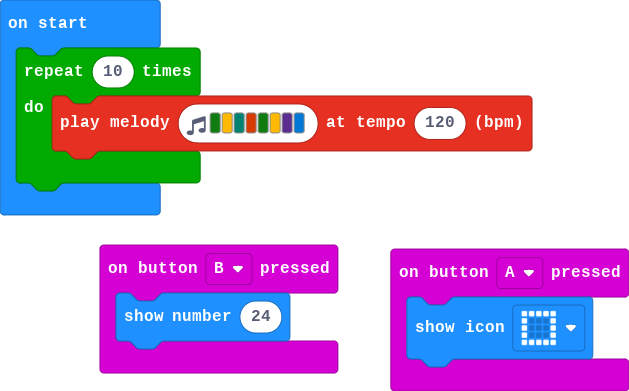
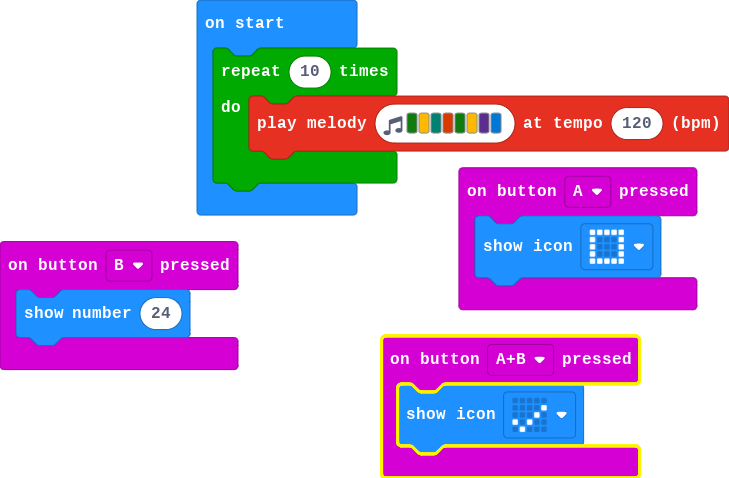
Update main.blocks, main.ts

diff --git a/main.ts b/main.ts
@@ -1,6 +1,9 @@
 input.onButtonPressed(Button.A, function () {
     basic.showIcon(IconNames.Square)
 })
+input.onButtonPressed(Button.AB, function () {
+    basic.showIcon(IconNames.Yes)
+})
 input.onButtonPressed(Button.B, function () {
     basic.showNumber(24)
 })
